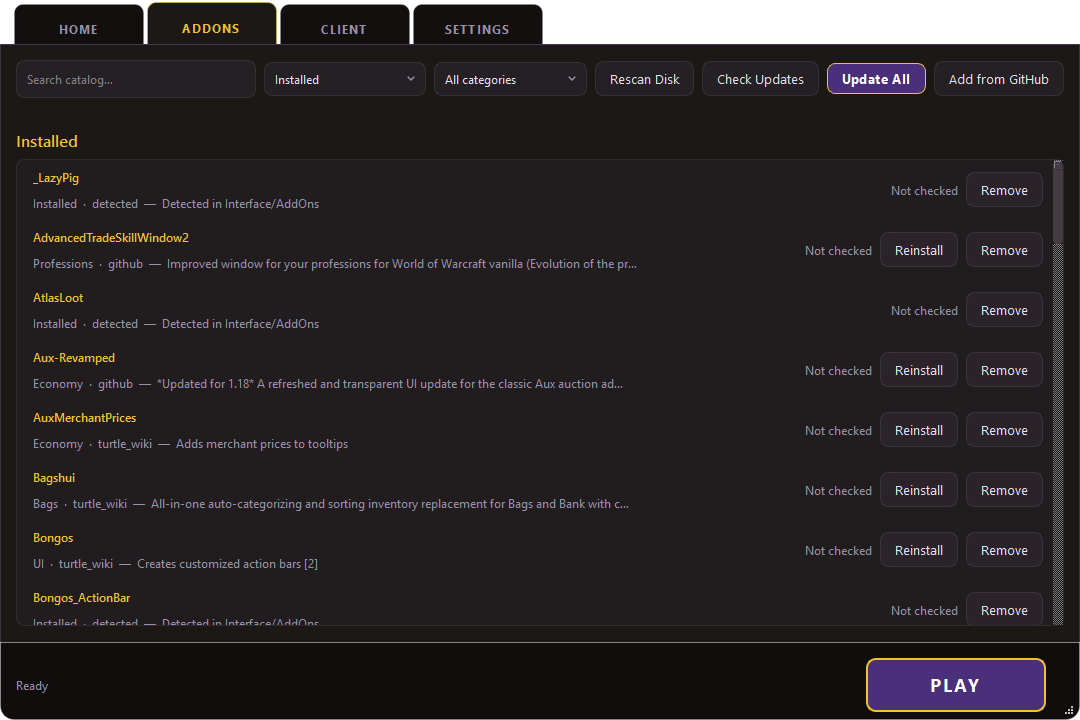
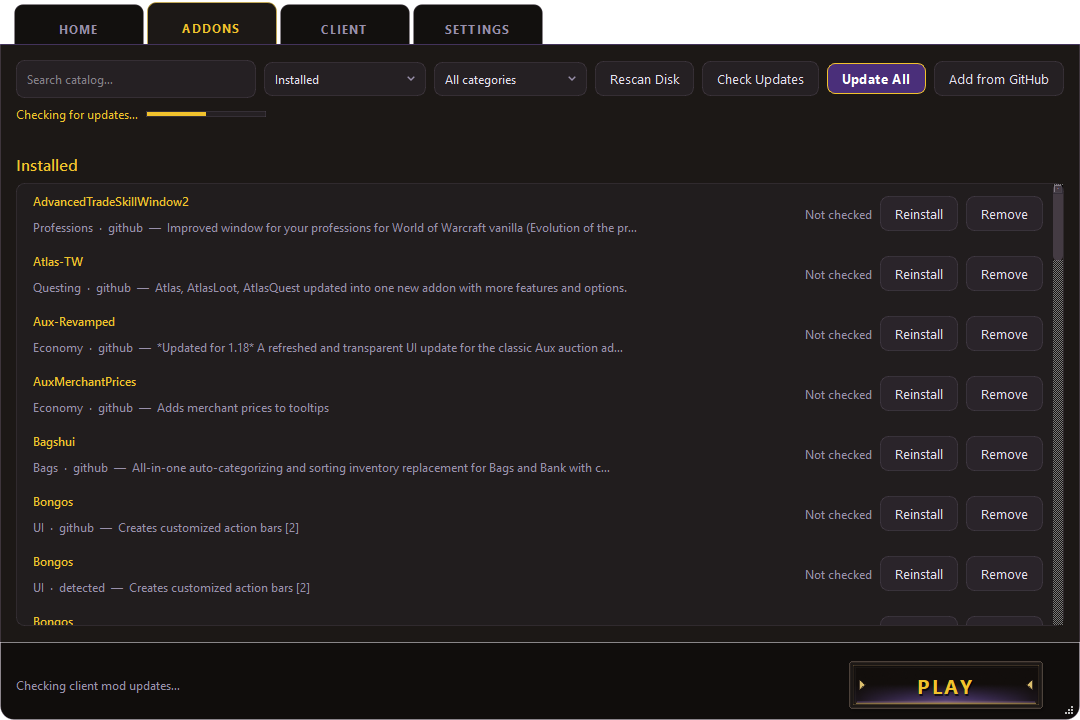
Restyle PLAY/INSTALL/UPDATE as OctoWoW-style metallic chrome in RavenCraft colors.
Adds a custom LaunchButton with beveled chrome PNG, purple bottom glow, and gold label; refreshes docs screenshots.

diff --git a/ichalaunch/ui/widgets/launch_button.py b/ichalaunch/ui/widgets/launch_button.py
@@ -1,0 +1,186 @@
+"""OctoWoW-style metallic launch button in RavenCraft colors."""
+
+from __future__ import annotations
+
+from PySide6.QtCore import QRect, Qt
+from PySide6.QtGui import QColor, QFont, QPainter, QPixmap
+from PySide6.QtWidgets import QPushButton, QSizePolicy
+
+from ichalaunch.core.paths import theme_file
+
+# RavenCraft palette
+_GOLD = QColor("#F1C22D")
+_GOLD_SOFT = QColor("#E8C878")
+_CREAM = QColor("#F5E6B8")
+_PURPLE = QColor("#7c5cc4")
+_MUTED = QColor("#6a6358")
+
+
+class LaunchButton(QPushButton):
+    """PLAY / INSTALL / UPDATE chrome button (objectName PlayButton).
+
+    Uses a generated 9-slice-friendly chrome PNG (beveled frame, recessed
+    panel, purple bottom glow, inward gold triangles) with painted gold text.
+    """
+
+    def __init__(self, text: str = "PLAY", parent=None):
+        super().__init__(text, parent)
+        self.setObjectName("PlayButton")
+        self.setCursor(Qt.CursorShape.PointingHandCursor)
+        self.setFocusPolicy(Qt.FocusPolicy.StrongFocus)
+        self.setSizePolicy(QSizePolicy.Policy.Fixed, QSizePolicy.Policy.Fixed)
+        self.setFixedSize(200, 56)
+        # Let paintEvent own the look — strip QSS chrome for this widget.
+        self.setFlat(True)
+        self.setAttribute(Qt.WidgetAttribute.WA_StyledBackground, False)
+        self.setStyleSheet(
+            "QPushButton#PlayButton {"
+            "  background: transparent;"
+            "  border: none;"
+            "  padding: 0;"
+            "  margin: 0;"
+            "  color: transparent;"
+            "}"
+        )
+        self._chrome: QPixmap | None = None
+        self._chrome_hover: QPixmap | None = None
+        self._chrome_pressed: QPixmap | None = None
+        self._chrome_disabled: QPixmap | None = None
+        self._load_chrome()
+
+    def _load_chrome(self) -> None:
+        path = theme_file("launch_btn_chrome.png")
+        if not path.exists():
+            self._chrome = None
+            return
+        base = QPixmap(str(path))
+        if base.isNull():
+            self._chrome = None
+            return
+        self._chrome = base
+        self._chrome_hover = self._tint_pixmap(base, QColor(124, 92, 196, 36), brighten=18)
+        self._chrome_pressed = self._tint_pixmap(base, QColor(0, 0, 0, 70), brighten=-22)
+        self._chrome_disabled = self._desaturate_pixmap(base)
+
+    @staticmethod
+    def _tint_pixmap(src: QPixmap, overlay: QColor, brighten: int = 0) -> QPixmap:
+        out = QPixmap(src.size())
+        out.fill(Qt.GlobalColor.transparent)
+        p = QPainter(out)
+        p.setRenderHint(QPainter.RenderHint.SmoothPixmapTransform)
+        p.drawPixmap(0, 0, src)
+        if brighten:
+            mode = QPainter.CompositionMode.CompositionMode_Plus if brighten > 0 else (
+                QPainter.CompositionMode.CompositionMode_Multiply
+            )
+            p.setCompositionMode(mode)
+            a = min(90, abs(brighten) * 3)
+            c = QColor(255, 255, 255, a) if brighten > 0 else QColor(40, 36, 32, a)
+            p.fillRect(out.rect(), c)
+        p.setCompositionMode(QPainter.CompositionMode.CompositionMode_SourceAtop)
+        p.fillRect(out.rect(), overlay)
+        p.end()
+        return out
+
+    @staticmethod
+    def _desaturate_pixmap(src: QPixmap) -> QPixmap:
+        img = src.toImage().convertToFormat(src.toImage().Format.Format_ARGB32)
+        for y in range(img.height()):
+            for x in range(img.width()):
+                c = img.pixelColor(x, y)
+                if c.alpha() == 0:
+                    continue
+                g = int(0.3 * c.red() + 0.59 * c.green() + 0.11 * c.blue())
+                c.setRed(g)
+                c.setGreen(g)
+                c.setBlue(int(g * 0.92))
+                c.setAlpha(int(c.alpha() * 0.75))
+                img.setPixelColor(x, y, c)
+        return QPixmap.fromImage(img)
+
+    def paintEvent(self, event) -> None:  # noqa: N802
+        painter = QPainter(self)
+        painter.setRenderHint(QPainter.RenderHint.Antialiasing)
+        painter.setRenderHint(QPainter.RenderHint.TextAntialiasing)
+        painter.setRenderHint(QPainter.RenderHint.SmoothPixmapTransform)
+
+        rect = self.rect()
+        chrome = self._pick_chrome()
+        if chrome is not None and not chrome.isNull():
+            # Slight press inset for tactile feel
+            draw_rect = rect.adjusted(1, 2, -1, 0) if self.isDown() else rect
+            if self.underMouse() and self.isEnabled() and not self.isDown():
+                # OctoWoW hover scale ~1.02 — approximate with a 1px expand
+                draw_rect = rect.adjusted(-1, -1, 1, 1)
+            painter.drawPixmap(draw_rect, chrome)
+        else:
+            self._paint_fallback_chrome(painter, rect)
+
+        self._paint_label(painter, rect)
+        painter.end()
+
+    def _pick_chrome(self) -> QPixmap | None:
+        if not self.isEnabled():
+            return self._chrome_disabled or self._chrome
+        if self.isDown():
+            return self._chrome_pressed or self._chrome
+        if self.underMouse():
+            return self._chrome_hover or self._chrome
+        return self._chrome
+
+    def _paint_fallback_chrome(self, painter: QPainter, rect: QRect) -> None:
+        """Vector fallback if the chrome PNG is missing."""
+        outer = rect.adjusted(2, 2, -2, -2)
+        painter.setPen(QColor(90, 78, 70))
+        painter.setBrush(QColor(28, 24, 22))
+        painter.drawRoundedRect(outer, 6, 6)
+        inner = outer.adjusted(8, 8, -8, -8)
+        painter.setPen(QColor(160, 130, 70, 180))
+        painter.setBrush(QColor(18, 14, 12))
+        painter.drawRoundedRect(inner, 3, 3)
+        # bottom glow
+        glow = QColor(_PURPLE)
+        for i in range(18):
+            glow.setAlpha(max(0, 140 - i * 8))
+            y = inner.bottom() - i
+            painter.fillRect(inner.left() + 4, y, inner.width() - 8, 1, glow)
+
+    def _paint_label(self, painter: QPainter, rect: QRect) -> None:
+        text = (self.text() or "").upper()
+        font = QFont(self.font())
+        font.setFamily("Segoe UI")
+        font.setBold(True)
+        font.setPixelSize(20)
+        font.setLetterSpacing(QFont.SpacingType.AbsoluteSpacing, 2.5)
+        painter.setFont(font)
+
+        if not self.isEnabled():
+            color = _MUTED
+        elif self.isDown():
+            color = _GOLD_SOFT
+        elif self.underMouse():
+            color = _CREAM
+        else:
+            color = _GOLD
+
+        # Soft text shadow for recessed metal look
+        text_rect = rect.adjusted(0, 0 if not self.isDown() else 1, 0, 0)
+        shadow = QColor(0, 0, 0, 160)
+        painter.setPen(shadow)
+        painter.drawText(text_rect.adjusted(1, 2, 1, 2), Qt.AlignmentFlag.AlignCenter, text)
+        # Warm under-glow on hover
+        if self.isEnabled() and self.underMouse() and not self.isDown():
+            glow = QColor(_PURPLE)
+            glow.setAlpha(70)
+            painter.setPen(glow)
+            painter.drawText(text_rect.adjusted(0, 1, 0, 1), Qt.AlignmentFlag.AlignCenter, text)
+        painter.setPen(color)
+        painter.drawText(text_rect, Qt.AlignmentFlag.AlignCenter, text)
+
+    def enterEvent(self, event) -> None:
+        super().enterEvent(event)
+        self.update()
+
+    def leaveEvent(self, event) -> None:
+        super().leaveEvent(event)
+        self.update()

diff --git a/ichalaunch/ui/main_window.py b/ichalaunch/ui/main_window.py
@@ -69,6 +69,7 @@ from ichalaunch.ui.pages.addons import AddonsPage
 from ichalaunch.ui.pages.client import ClientPage
 from ichalaunch.ui.pages.home import HomePage
 from ichalaunch.ui.pages.settings import SettingsPage
+from ichalaunch.ui.widgets.launch_button import LaunchButton
 
 
 class Worker(QThread):
@@ -205,9 +206,7 @@ class MainWindow(QMainWindow):
         prog_wrap.addWidget(self.status_lbl)
         prog_wrap.addWidget(self.progress)
 
-        self.play_btn = QPushButton("PLAY")
-        self.play_btn.setObjectName("PlayButton")
-        self.play_btn.setFixedSize(180, 54)
+        self.play_btn = LaunchButton("PLAY")
         self.play_btn.clicked.connect(self._on_play_or_install)
 
         grip = QSizeGrip(bottom)
